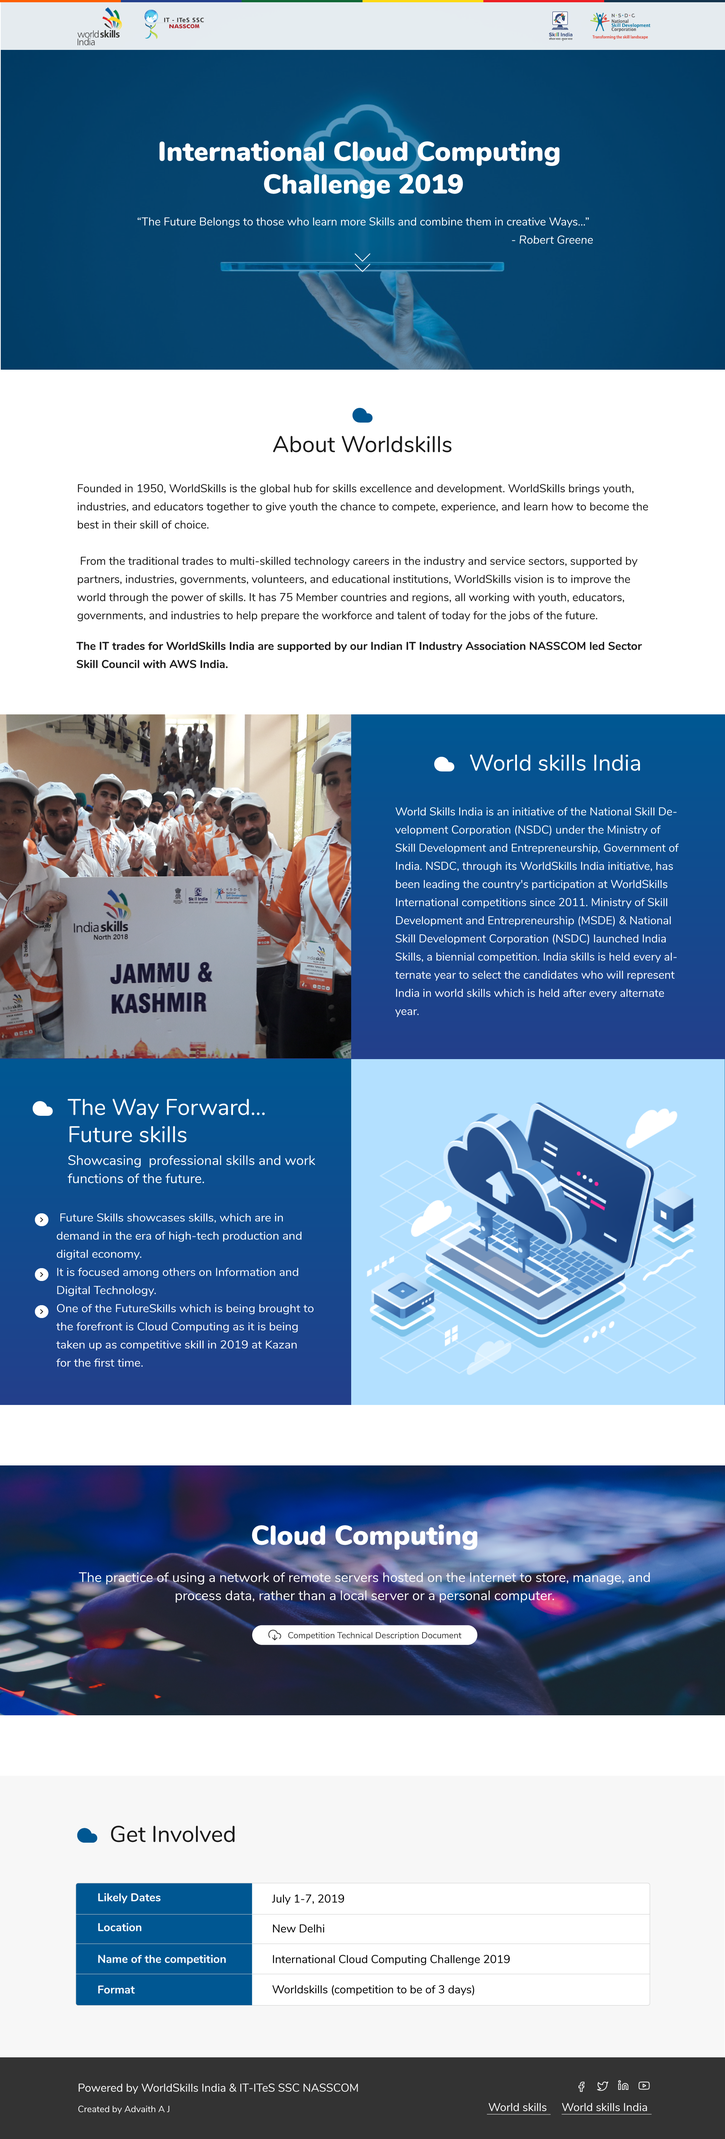
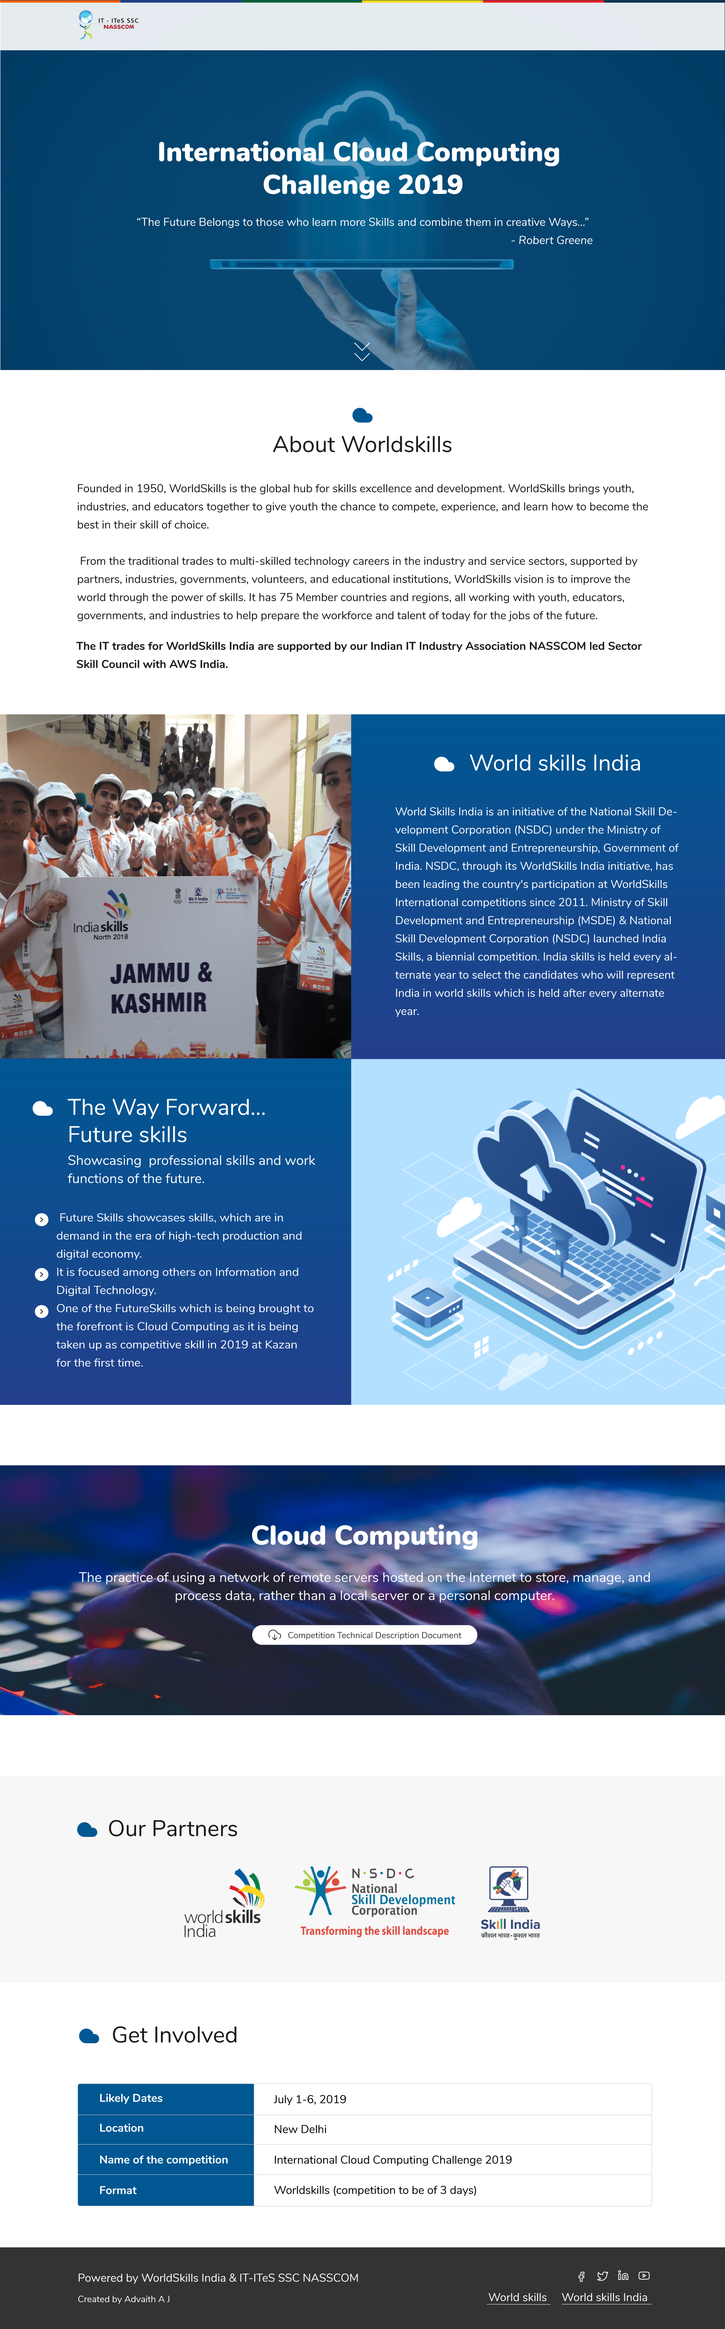
Added Our partners

diff --git a/dist/css/app.css b/dist/css/app.css
@@ -1,1 +1,1 @@
-@import url(https://fonts.googleapis.com/css?family=Nunito:300,400,900&display=swap);/*! normalize.css v8.0.1 | MIT License | github.com/necolas/normalize.css */html{line-height:1.15;-webkit-text-size-adjust:100%}body{margin:0}main{display:block}a{background-color:transparent}strong{font-weight:bolder}button,input,select{font-family:inherit;font-size:100%;line-height:1.15;margin:0}button,input{overflow:visible}button,select{text-transform:none}[type=button],[type=reset],[type=submit],button{-webkit-appearance:button}[type=button]::-moz-focus-inner,[type=reset]::-moz-focus-inner,[type=submit]::-moz-focus-inner,button::-moz-focus-inner{border-style:none;padding:0}[type=button]:-moz-focusring,[type=reset]:-moz-focusring,[type=submit]:-moz-focusring,button:-moz-focusring{outline:1px dotted ButtonText}legend{color:inherit;display:table;max-width:100%;white-space:normal}[type=checkbox],[type=radio],legend{box-sizing:border-box;padding:0}[type=number]::-webkit-inner-spin-button,[type=number]::-webkit-outer-spin-button{height:auto}[type=search]{-webkit-appearance:textfield;outline-offset:-2px}[type=search]::-webkit-search-decoration{-webkit-appearance:none}::-webkit-file-upload-button{-webkit-appearance:button;font:inherit}[hidden]{display:none}html{box-sizing:border-box;font-family:sans-serif}*,:after,:before{box-sizing:inherit}p{margin:0}button{background:transparent;padding:0}button:focus{outline:1px dotted;outline:5px auto -webkit-focus-ring-color}html{font-family:-apple-system,BlinkMacSystemFont,Segoe UI,Roboto,Helvetica Neue,Arial,Noto Sans,sans-serif,Apple Color Emoji,Segoe UI Emoji,Segoe UI Symbol,Noto Color Emoji;line-height:1.5}*,:after,:before{border:0 solid #e2e8f0}input::-webkit-input-placeholder{color:inherit;opacity:.5}input::-moz-placeholder{color:inherit;opacity:.5}input:-ms-input-placeholder{color:inherit;opacity:.5}input::-ms-input-placeholder{color:inherit;opacity:.5}input::placeholder{color:inherit;opacity:.5}[role=button],button{cursor:pointer}table{border-collapse:collapse}a{color:inherit;text-decoration:inherit}button,input,select{padding:0;line-height:inherit;color:inherit}canvas{display:block;vertical-align:middle}.container{width:100%}@media (min-width:640px){.container{max-width:640px}}@media (min-width:768px){.container{max-width:768px}}@media (min-width:1024px){.container{max-width:1024px}}@media (min-width:1280px){.container{max-width:1280px}}.bg-white{background-color:#fff}.bg-gray-100{background-color:#f7fafc}.bg-gray-800{background-color:#2d3748}.border-separate{border-collapse:separate}.border-white{border-color:#fff}.border-gray-400{border-color:#cbd5e0}.rounded{border-radius:.25rem}.rounded-full{border-radius:9999px}.border{border-width:1px}.border-b{border-bottom-width:1px}.cursor-pointer{cursor:pointer}.flex{display:flex}.table{display:table}.hidden{display:none}.flex-col{flex-direction:column}.items-start{align-items:flex-start}.items-end{align-items:flex-end}.items-center{align-items:center}.justify-end{justify-content:flex-end}.justify-center{justify-content:center}.justify-between{justify-content:space-between}.font-normal{font-weight:400}.font-bold{font-weight:700}.font-black{font-weight:900}.h-full{height:100%}.my-24{margin-top:6rem;margin-bottom:6rem}.mx-auto{margin-left:auto;margin-right:auto}.mt-2{margin-top:.5rem}.mr-2{margin-right:.5rem}.mb-2{margin-bottom:.5rem}.ml-2{margin-left:.5rem}.mt-3{margin-top:.75rem}.mr-3{margin-right:.75rem}.ml-3{margin-left:.75rem}.mt-4{margin-top:1rem}.ml-4{margin-left:1rem}.mt-6{margin-top:1.5rem}.mt-8{margin-top:2rem}.mt-10{margin-top:2.5rem}.max-w-3xl{max-width:48rem}.overflow-hidden{overflow:hidden}.px-1{padding-left:.25rem;padding-right:.25rem}.py-2{padding-top:.5rem;padding-bottom:.5rem}.py-3{padding-top:.75rem;padding-bottom:.75rem}.px-4{padding-left:1rem;padding-right:1rem}.py-8{padding-top:2rem;padding-bottom:2rem}.px-10{padding-left:2.5rem;padding-right:2.5rem}.py-16{padding-top:4rem;padding-bottom:4rem}.py-24{padding-top:6rem;padding-bottom:6rem}.py-32{padding-top:8rem;padding-bottom:8rem}.pb-1{padding-bottom:.25rem}.pb-10{padding-bottom:2.5rem}.pt-16{padding-top:4rem}.pb-16{padding-bottom:4rem}.absolute{position:absolute}.relative{position:relative}.top-0{top:0}.left-0{left:0}.text-left{text-align:left}.text-center{text-align:center}.text-right{text-align:right}.text-justify{text-align:justify}.text-black{color:#000}.text-white{color:#fff}.text-gray-800{color:#2d3748}.text-gray-900{color:#1a202c}.text-sm{font-size:.875rem}.text-lg{font-size:1.125rem}.text-4xl{font-size:2.25rem}.text-5xl{font-size:3rem}.italic{font-style:italic}.uppercase{text-transform:uppercase}.w-full{width:100%}.z-10{z-index:10}body{color:#1a1a1a;font-family:Nunito,Helvetica Neue,sans-serif;font-weight:400}.colors{height:6px}.colors span{flex:1}.colors span:first-child{background:#fd5f00}.colors span:nth-child(2){background:#233f8b}.colors span:nth-child(3){background:#106735}.colors span:nth-child(4){background:#fcd912}.colors span:nth-child(5){background:#ed1f24}.colors span:nth-child(6){background:#13334c}nav{background:hsla(0,0%,100%,.9)}nav .world-skills-india{background:url(/images/logo.png?592d8378cec2a13db16b1ba295300bd3) 50% no-repeat}nav .nasscom{background:url(/images/nasscom.png?c8531f7e327329886d5768d51ae4a83b) 50% no-repeat}nav .skill-india{background:url(/images/skill-india.png?869328243677a1a586e418b9548a7839) 50% no-repeat}nav .nsdc{background:url(/images/nsdc.png?9fe64b327d0988d0661dde01a9784bca) 50% no-repeat}nav .nasscom,nav .nsdc,nav .skill-india,nav .world-skills-india{background-size:contain;width:100px;height:60px}.main-header{height:700px;background:url(/images/header-background.jpeg?292eb1d8847fccf758e0bd5d6e6dab24) 50% no-repeat;background-size:cover}.main-header .lightbox{width:100%;height:100%;background:rgba(0,87,146,.6)}.main-header .arrow-down{bottom:20px;left:50%;-webkit-transform:translateX(-50%);transform:translateX(-50%)}.bg-blue{background:#005792}.grid-header{display:grid;grid-template-columns:40px 1fr;grid-gap:.6rem}.grid-2{display:grid;grid-template-columns:repeat(1,1fr)}@media screen and (min-width:768px){.grid-2{grid-template-columns:repeat(2,1fr)}}.bg-gradient{background:linear-gradient(180deg,#005792,#233f8b)}.world_skills_background{background:url(/images/World_skills.jpg?3d50af36f973ac3c7b3bb8ee37115dab) 50% no-repeat;background-size:cover}.future_skills{background:url(/images/future_skills.png?eb8f647094bb9c0c165dbb3b94b5a5b9) 50% no-repeat;background-size:cover}.list{padding:.3rem;border-radius:50px;background:#fff}.cloud_computing{background:url(/images/cloud_computing.jpg?3493a31289a6bcc4c7c5d24445983015) 50% no-repeat;background-size:cover}.border-spacing-0{border-spacing:0}@media (min-width:768px){.md\:block{display:block}}
+@import url(https://fonts.googleapis.com/css?family=Nunito:300,400,900&display=swap);/*! normalize.css v8.0.1 | MIT License | github.com/necolas/normalize.css */html{line-height:1.15;-webkit-text-size-adjust:100%}body{margin:0}main{display:block}a{background-color:transparent}strong{font-weight:bolder}img{border-style:none}button,input,select{font-family:inherit;font-size:100%;line-height:1.15;margin:0}button,input{overflow:visible}button,select{text-transform:none}[type=button],[type=reset],[type=submit],button{-webkit-appearance:button}[type=button]::-moz-focus-inner,[type=reset]::-moz-focus-inner,[type=submit]::-moz-focus-inner,button::-moz-focus-inner{border-style:none;padding:0}[type=button]:-moz-focusring,[type=reset]:-moz-focusring,[type=submit]:-moz-focusring,button:-moz-focusring{outline:1px dotted ButtonText}legend{color:inherit;display:table;max-width:100%;white-space:normal}[type=checkbox],[type=radio],legend{box-sizing:border-box;padding:0}[type=number]::-webkit-inner-spin-button,[type=number]::-webkit-outer-spin-button{height:auto}[type=search]{-webkit-appearance:textfield;outline-offset:-2px}[type=search]::-webkit-search-decoration{-webkit-appearance:none}::-webkit-file-upload-button{-webkit-appearance:button;font:inherit}[hidden]{display:none}html{box-sizing:border-box;font-family:sans-serif}*,:after,:before{box-sizing:inherit}p{margin:0}button{background:transparent;padding:0}button:focus{outline:1px dotted;outline:5px auto -webkit-focus-ring-color}html{font-family:-apple-system,BlinkMacSystemFont,Segoe UI,Roboto,Helvetica Neue,Arial,Noto Sans,sans-serif,Apple Color Emoji,Segoe UI Emoji,Segoe UI Symbol,Noto Color Emoji;line-height:1.5}*,:after,:before{border:0 solid #e2e8f0}img{border-style:solid}input::-webkit-input-placeholder{color:inherit;opacity:.5}input::-moz-placeholder{color:inherit;opacity:.5}input:-ms-input-placeholder{color:inherit;opacity:.5}input::-ms-input-placeholder{color:inherit;opacity:.5}input::placeholder{color:inherit;opacity:.5}[role=button],button{cursor:pointer}table{border-collapse:collapse}a{color:inherit;text-decoration:inherit}button,input,select{padding:0;line-height:inherit;color:inherit}canvas,img{display:block;vertical-align:middle}img{max-width:100%;height:auto}.container{width:100%}@media (min-width:640px){.container{max-width:640px}}@media (min-width:768px){.container{max-width:768px}}@media (min-width:1024px){.container{max-width:1024px}}@media (min-width:1280px){.container{max-width:1280px}}.bg-white{background-color:#fff}.bg-gray-100{background-color:#f7fafc}.bg-gray-800{background-color:#2d3748}.border-separate{border-collapse:separate}.border-white{border-color:#fff}.border-gray-400{border-color:#cbd5e0}.rounded{border-radius:.25rem}.rounded-full{border-radius:9999px}.border{border-width:1px}.border-b{border-bottom-width:1px}.cursor-pointer{cursor:pointer}.flex{display:flex}.table{display:table}.hidden{display:none}.flex-col{flex-direction:column}.flex-wrap{flex-wrap:wrap}.items-start{align-items:flex-start}.items-end{align-items:flex-end}.items-center{align-items:center}.justify-end{justify-content:flex-end}.justify-center{justify-content:center}.justify-between{justify-content:space-between}.font-normal{font-weight:400}.font-bold{font-weight:700}.font-black{font-weight:900}.h-32{height:8rem}.h-full{height:100%}.my-2{margin-top:.5rem;margin-bottom:.5rem}.mx-6{margin-left:1.5rem;margin-right:1.5rem}.my-24{margin-top:6rem;margin-bottom:6rem}.mx-auto{margin-left:auto;margin-right:auto}.mt-2{margin-top:.5rem}.mr-2{margin-right:.5rem}.mb-2{margin-bottom:.5rem}.ml-2{margin-left:.5rem}.mt-3{margin-top:.75rem}.mr-3{margin-right:.75rem}.ml-3{margin-left:.75rem}.mt-4{margin-top:1rem}.ml-4{margin-left:1rem}.mt-6{margin-top:1.5rem}.mt-8{margin-top:2rem}.mt-10{margin-top:2.5rem}.max-w-3xl{max-width:48rem}.overflow-hidden{overflow:hidden}.px-1{padding-left:.25rem;padding-right:.25rem}.py-2{padding-top:.5rem;padding-bottom:.5rem}.py-3{padding-top:.75rem;padding-bottom:.75rem}.px-4{padding-left:1rem;padding-right:1rem}.py-8{padding-top:2rem;padding-bottom:2rem}.px-10{padding-left:2.5rem;padding-right:2.5rem}.py-16{padding-top:4rem;padding-bottom:4rem}.py-24{padding-top:6rem;padding-bottom:6rem}.py-32{padding-top:8rem;padding-bottom:8rem}.pb-1{padding-bottom:.25rem}.pb-10{padding-bottom:2.5rem}.pt-16{padding-top:4rem}.pb-16{padding-bottom:4rem}.absolute{position:absolute}.relative{position:relative}.top-0{top:0}.left-0{left:0}.text-left{text-align:left}.text-center{text-align:center}.text-right{text-align:right}.text-justify{text-align:justify}.text-black{color:#000}.text-white{color:#fff}.text-gray-800{color:#2d3748}.text-gray-900{color:#1a202c}.text-sm{font-size:.875rem}.text-lg{font-size:1.125rem}.text-3xl{font-size:1.875rem}.text-4xl{font-size:2.25rem}.text-5xl{font-size:3rem}.italic{font-style:italic}.uppercase{text-transform:uppercase}.w-full{width:100%}.z-10{z-index:10}body{color:#1a1a1a;font-family:Nunito,Helvetica Neue,sans-serif;font-weight:400}.colors{height:6px}.colors span{flex:1}.colors span:first-child{background:#fd5f00}.colors span:nth-child(2){background:#233f8b}.colors span:nth-child(3){background:#106735}.colors span:nth-child(4){background:#fcd912}.colors span:nth-child(5){background:#ed1f24}.colors span:nth-child(6){background:#13334c}nav{background:hsla(0,0%,100%,.9)}.main-header{height:calc(400px + 30vh);background:url(../images/header-background.jpeg) 50% no-repeat;background-size:cover}.main-header .lightbox{width:100%;height:100%;background:rgba(0,87,146,.6)}.main-header .arrow-down{bottom:20px;left:50%;-webkit-transform:translateX(-50%);transform:translateX(-50%)}.main-header .arrow-down svg{width:40px;height:40px}.cloud svg{width:30px;height:30px;fill:#005792;stroke:#005792}.cloud.white svg{fill:#fff;stroke:#fff}.bg-blue{background:#005792}.grid-header{display:grid;grid-template-columns:40px 1fr;grid-gap:.6rem}.grid-2{display:grid;grid-template-columns:repeat(1,1fr)}@media screen and (min-width:768px){.grid-2{grid-template-columns:repeat(2,1fr)}}.bg-gradient{background:linear-gradient(180deg,#005792,#233f8b)}.world_skills_background{background:url(../images/World_skills.jpg) 50% no-repeat;background-size:cover}.future_skills{background:url(../images/future_skills.png) 50% no-repeat;background-size:cover}.list{display:flex;padding:.3rem;border-radius:50px;background:#fff}.cloud_computing{background:url(../images/cloud_computing.jpg) 50% no-repeat;background-size:cover}.border-spacing-0{border-spacing:0}@media (min-width:640px){.sm\:text-5xl{font-size:3rem}}@media (min-width:768px){.md\:block{display:block}}

diff --git a/dist/index.html b/dist/index.html
@@ -6,7 +6,7 @@
 
 		<meta name="viewport" content="width=device-width, initial-scale=1" />
 
-		<link rel="stylesheet" href="/css/app.css" />
+		<link rel="stylesheet" href="css/app.css" />
 	</head>
 	<body>
 		<!-- top section to display colors -->
@@ -18,27 +18,19 @@
 			<span></span>
 			<span></span>
 		</div>
-
-		<!-- navigation bar of the webpage -->
-		<nav class="absolute top-0 left-0 w-full z-10">
-			<div class="container mx-auto px-4 py-2 flex justify-between items-center">
-				<div class="flex">
-					<div class="world-skills-india"></div>
-					<div class="nasscom"></div>
-				</div>
-
-				<div class="flex">
-					<div class="skill-india"></div>
-					<div class="nsdc"></div>
-				</div>
-			</div>
-		</nav>
 	
 		<!-- main header section of the page -->
-		<header class="w-full main-header">
+		<header class="w-full main-header relative">
+			<!-- navigation bar of the webpage -->
+			<nav class="absolute top-0 left-0 w-full z-10">
+				<div class="container mx-auto px-4 py-2">
+					<img src="images/nasscom.png" alt="Nasscom" width="100" height="60" />
+				</div>
+			</nav>
+
 			<div class="lightbox">
 				<div class="text-white flex flex-col justify-center items-center h-full relative coontainer mx-auto px-4">
-					<div class="font-black uppercase text-5xl text-center max-w-3xl">
+					<div class="font-black uppercase text-3xl text-center max-w-3xl sm:text-5xl">
 						International Cloud Computing Challenge 2019
 					</div>
 
@@ -170,37 +162,56 @@
 			</div>
 		</div>
 
-		<!-- get_involved section -->
-		<div id="get_involved" class="bg-gray-100">
-			<div class="container mx-auto py-16 px-4">
+		<!-- our partner section -->
+		<div class="bg-gray-100">
+			<div class="container mx-auto px-4 py-16">
 				<div class="flex items-center">
 					<div class="cloud">
 						<i data-feather="cloud"></i>
 					</div>
-					<div class="ml-4 font-normal text-4xl">
-						Get Involved
+
+					<div class="text-4xl font-normal ml-4">
+						Our Partners
 					</div>
 				</div>
 
-				<table class="mt-10 text-left border border-gray-400 w-full rounded border-separate overflow-hidden border-spacing-0">
-					<tr>
-						<th class="border-b border-gray-400 text-white bg-blue px-4 py-3">Likely Dates</th>
-						<td class="border-b border-gray-400 px-4 py-3 bg-white">July 1-7, 2019</td>
-					</tr>
-					<tr>
-						<th class="border-b border-gray-400 text-white bg-blue px-4 py-3">Location</th>
-						<td class="border-b border-gray-400 px-4 py-3 bg-white">New Delhi</td>
-					</tr>
-					<tr>
-						<th class="border-b border-gray-400 text-white bg-blue px-4 py-3">Name of the competition</th>
-						<td class="border-b border-gray-400 px-4 py-3 bg-white">International Cloud Computing Challenge 2019</td>
-					</tr>
-					<tr>
-						<th class="text-white bg-blue px-4 py-3">Format</th>
-						<td class="px-4 py-3 bg-white">Worldskills (competition to be of 3 days)</td>
-					</tr>
-				</table>
+				<div class="mt-8 flex justify-center flex-wrap">
+					<img src="images/logo.png" class="h-32 mx-6 my-2" alt="Logo" />
+					<img src="images/skill-india.png" class="h-32 mx-6 my-2" alt="Skill India" />
+					<img src="images/nsdc.png" class="h-32 mx-6 my-2" alt="NSDC" />
+				</div>
 			</div>
+		</div>
+
+		<!-- get_involved section -->
+		<div class="container mx-auto py-16 px-4" id="get_involved">
+			<div class="flex items-center">
+				<div class="cloud">
+					<i data-feather="cloud"></i>
+				</div>
+				<div class="ml-4 font-normal text-4xl">
+					Get Involved
+				</div>
+			</div>
+
+			<table class="mt-10 text-left border border-gray-400 w-full rounded border-separate overflow-hidden border-spacing-0">
+				<tr>
+					<th class="border-b border-gray-400 text-white bg-blue px-4 py-3">Likely Dates</th>
+					<td class="border-b border-gray-400 px-4 py-3 bg-white">July 1-6, 2019</td>
+				</tr>
+				<tr>
+					<th class="border-b border-gray-400 text-white bg-blue px-4 py-3">Location</th>
+					<td class="border-b border-gray-400 px-4 py-3 bg-white">New Delhi</td>
+				</tr>
+				<tr>
+					<th class="border-b border-gray-400 text-white bg-blue px-4 py-3">Name of the competition</th>
+					<td class="border-b border-gray-400 px-4 py-3 bg-white">International Cloud Computing Challenge 2019</td>
+				</tr>
+				<tr>
+					<th class="text-white bg-blue px-4 py-3">Format</th>
+					<td class="px-4 py-3 bg-white">Worldskills (competition to be of 3 days)</td>
+				</tr>
+			</table>
 		</div>
 
 		<!-- footer of the page -->
@@ -235,6 +246,6 @@
 			</div>
 		</footer>
 
-		<script src="/js/app.js"></script>
+		<script src="js/app.js"></script>
 	</body>
 </html>

diff --git a/src/index.html b/src/index.html
@@ -6,7 +6,7 @@
 
 		<meta name="viewport" content="width=device-width, initial-scale=1" />
 
-		<link rel="stylesheet" href="/css/app.css" />
+		<link rel="stylesheet" href="css/app.css" />
 	</head>
 	<body>
 		<!-- top section to display colors -->
@@ -18,27 +18,19 @@
 			<span></span>
 			<span></span>
 		</div>
-
-		<!-- navigation bar of the webpage -->
-		<nav class="absolute top-0 left-0 w-full z-10">
-			<div class="container mx-auto px-4 py-2 flex justify-between items-center">
-				<div class="flex">
-					<div class="world-skills-india"></div>
-					<div class="nasscom"></div>
-				</div>
-
-				<div class="flex">
-					<div class="skill-india"></div>
-					<div class="nsdc"></div>
-				</div>
-			</div>
-		</nav>
 	
 		<!-- main header section of the page -->
-		<header class="w-full main-header">
+		<header class="w-full main-header relative">
+			<!-- navigation bar of the webpage -->
+			<nav class="absolute top-0 left-0 w-full z-10">
+				<div class="container mx-auto px-4 py-2">
+					<img src="images/nasscom.png" alt="Nasscom" width="100" height="60" />
+				</div>
+			</nav>
+
 			<div class="lightbox">
 				<div class="text-white flex flex-col justify-center items-center h-full relative coontainer mx-auto px-4">
-					<div class="font-black uppercase text-5xl text-center max-w-3xl">
+					<div class="font-black uppercase text-3xl text-center max-w-3xl sm:text-5xl">
 						International Cloud Computing Challenge 2019
 					</div>
 
@@ -170,37 +162,56 @@
 			</div>
 		</div>
 
-		<!-- get_involved section -->
-		<div id="get_involved" class="bg-gray-100">
-			<div class="container mx-auto py-16 px-4">
+		<!-- our partner section -->
+		<div class="bg-gray-100">
+			<div class="container mx-auto px-4 py-16">
 				<div class="flex items-center">
 					<div class="cloud">
 						<i data-feather="cloud"></i>
 					</div>
-					<div class="ml-4 font-normal text-4xl">
-						Get Involved
+
+					<div class="text-4xl font-normal ml-4">
+						Our Partners
 					</div>
 				</div>
 
-				<table class="mt-10 text-left border border-gray-400 w-full rounded border-separate overflow-hidden border-spacing-0">
-					<tr>
-						<th class="border-b border-gray-400 text-white bg-blue px-4 py-3">Likely Dates</th>
-						<td class="border-b border-gray-400 px-4 py-3 bg-white">July 1-7, 2019</td>
-					</tr>
-					<tr>
-						<th class="border-b border-gray-400 text-white bg-blue px-4 py-3">Location</th>
-						<td class="border-b border-gray-400 px-4 py-3 bg-white">New Delhi</td>
-					</tr>
-					<tr>
-						<th class="border-b border-gray-400 text-white bg-blue px-4 py-3">Name of the competition</th>
-						<td class="border-b border-gray-400 px-4 py-3 bg-white">International Cloud Computing Challenge 2019</td>
-					</tr>
-					<tr>
-						<th class="text-white bg-blue px-4 py-3">Format</th>
-						<td class="px-4 py-3 bg-white">Worldskills (competition to be of 3 days)</td>
-					</tr>
-				</table>
+				<div class="mt-8 flex justify-center flex-wrap">
+					<img src="images/logo.png" class="h-32 mx-6 my-2" alt="Logo" />
+					<img src="images/skill-india.png" class="h-32 mx-6 my-2" alt="Skill India" />
+					<img src="images/nsdc.png" class="h-32 mx-6 my-2" alt="NSDC" />
+				</div>
 			</div>
+		</div>
+
+		<!-- get_involved section -->
+		<div class="container mx-auto py-16 px-4" id="get_involved">
+			<div class="flex items-center">
+				<div class="cloud">
+					<i data-feather="cloud"></i>
+				</div>
+				<div class="ml-4 font-normal text-4xl">
+					Get Involved
+				</div>
+			</div>
+
+			<table class="mt-10 text-left border border-gray-400 w-full rounded border-separate overflow-hidden border-spacing-0">
+				<tr>
+					<th class="border-b border-gray-400 text-white bg-blue px-4 py-3">Likely Dates</th>
+					<td class="border-b border-gray-400 px-4 py-3 bg-white">July 1-6, 2019</td>
+				</tr>
+				<tr>
+					<th class="border-b border-gray-400 text-white bg-blue px-4 py-3">Location</th>
+					<td class="border-b border-gray-400 px-4 py-3 bg-white">New Delhi</td>
+				</tr>
+				<tr>
+					<th class="border-b border-gray-400 text-white bg-blue px-4 py-3">Name of the competition</th>
+					<td class="border-b border-gray-400 px-4 py-3 bg-white">International Cloud Computing Challenge 2019</td>
+				</tr>
+				<tr>
+					<th class="text-white bg-blue px-4 py-3">Format</th>
+					<td class="px-4 py-3 bg-white">Worldskills (competition to be of 3 days)</td>
+				</tr>
+			</table>
 		</div>
 
 		<!-- footer of the page -->
@@ -235,6 +246,6 @@
 			</div>
 		</footer>
 
-		<script src="/js/app.js"></script>
+		<script src="js/app.js"></script>
 	</body>
 </html>

diff --git a/src/scss/_header.scss b/src/scss/_header.scss
@@ -19,20 +19,14 @@ nav {
 	background: rgba(255, 255, 255, .9);
 
 	.world-skills-india { background: url('./../images/logo.png') center no-repeat; }
-	.nasscom { background: url('./../images/nasscom.png') center no-repeat; }
 	.skill-india { background: url('./../images/skill-india.png') center no-repeat; }
 	.nsdc { background: url('./../images/nsdc.png') center no-repeat; }
-
-	.world-skills-india, .nasscom, .skill-india, .nsdc {
-		background-size: contain;
-		width: 100px;
-		height: 60px;
-	}
 }
 
 // main header
+/* purgecss start ignore */
 .main-header {
-	height: 700px;
+	height: calc(400px + 30vh);
 	background: url('./../images/header-background.jpeg') center no-repeat;
 	background-size: cover;
 
@@ -53,3 +47,4 @@ nav {
 		}
 	}
 }
+/* purgecss end ignore */

diff --git a/webpack.mix.js b/webpack.mix.js
@@ -18,6 +18,7 @@ mix
 	.js('src/js/app.js', 'dist/js/') // compiling the javascript file
 	.sass('src/scss/app.scss', 'dist/css/') // compiling the sass file into css file
   	.options({
+  		processCssUrls: false,
     	postCss: [ tailwindcss('./tailwind.config.js') ]
   	}) // configuring tailwindcss
 	.browserSync({

diff --git a/src/scss/_content.scss b/src/scss/_content.scss
@@ -1,3 +1,4 @@
+/* purgecss start ignore */
 .cloud {
 	svg {
 		width: 30px;
@@ -11,6 +12,7 @@
 		stroke: white;
 	}
 }
+/* purgecss end ignore */
 
 .bg-blue {
 	background: $light-blue;
@@ -48,6 +50,7 @@
 }
 
 .list {
+	display: flex;
 	padding: 0.3rem;
 	border-radius: 50px;
 	background: white;
